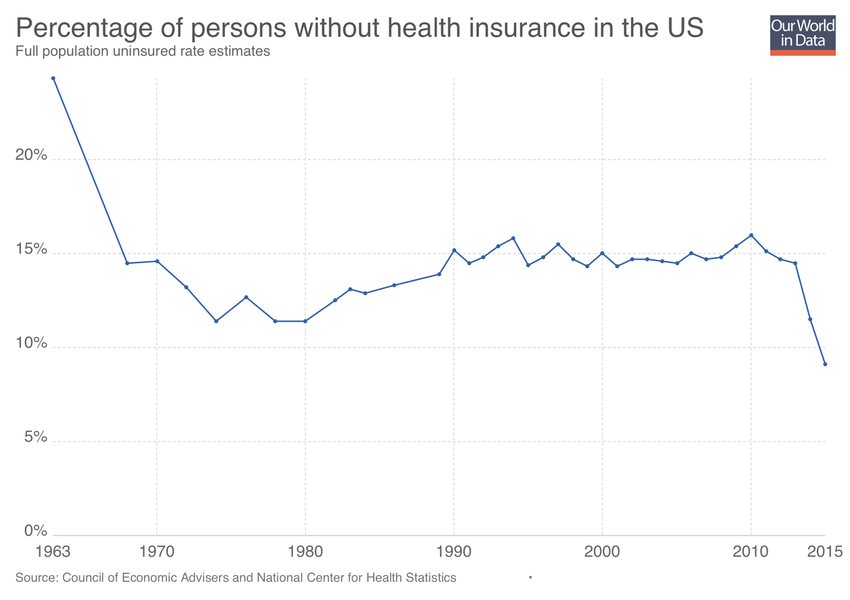
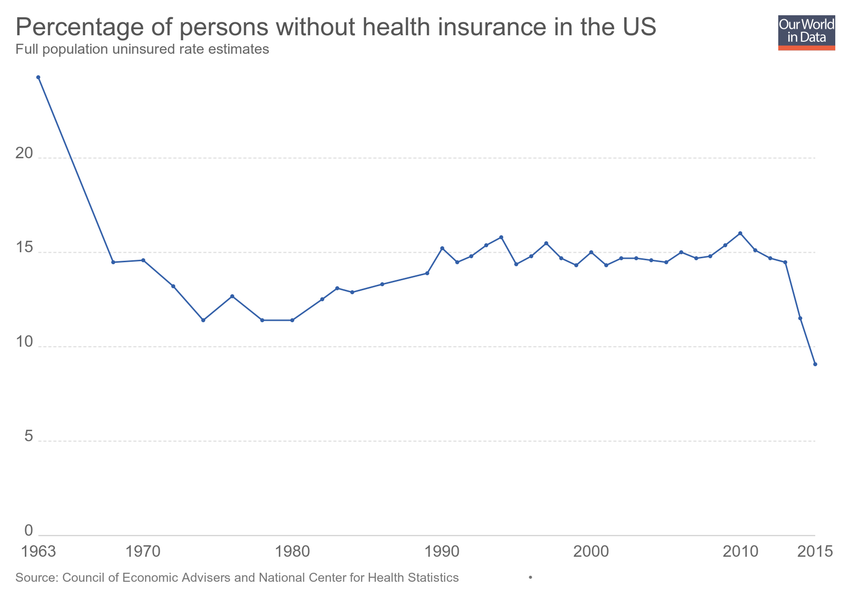
Updating chart percentage-of-persons-without-health-insurance-coverage-us

diff --git a/grapher/percentage-of-persons-without-health-insurance-coverage-us.html b/grapher/percentage-of-persons-without-health-insurance-coverage-us.html
@@ -1,4 +1,4 @@
-<!doctype html><html><head><meta name="viewport" content="width=device-width, initial-scale=1" /><title>Percentage of persons without health insurance in the US - Our World in Data</title><meta name="description" content="Full population uninsured rate estimates" /><link rel="canonical" href="https://ourworldindata.org/grapher/percentage-of-persons-without-health-insurance-coverage-us" /><meta property="fb:app_id" content="1149943818390250" /><meta property="og:url" content="https://ourworldindata.org/grapher/percentage-of-persons-without-health-insurance-coverage-us" /><meta property="og:title" content="Percentage of persons without health insurance in the US" /><meta property="og:description" content="Full population uninsured rate estimates" /><meta property="og:image" content="https://ourworldindata.org/grapher/exports/percentage-of-persons-without-health-insurance-coverage-us.png?v=1" /><meta property="og:image:width" content="850" /><meta property="og:image:height" content="600" /><meta property="og:site_name" content="Our World in Data" /><meta name="twitter:card" content="summary_large_image" /><meta name="twitter:site" content="@OurWorldInData" /><meta name="twitter:creator" content="@OurWorldInData" /><meta name="twitter:title" content="Percentage of persons without health insurance in the US" /><meta name="twitter:description" content="Full population uninsured rate estimates" /><meta name="twitter:image" content="https://ourworldindata.org/grapher/exports/percentage-of-persons-without-health-insurance-coverage-us.png?v=1" /><style>
+<!doctype html><html><head><meta name="viewport" content="width=device-width, initial-scale=1" /><title>Percentage of persons without health insurance in the US - Our World in Data</title><meta name="description" content="Full population uninsured rate estimates" /><link rel="canonical" href="https://ourworldindata.org/grapher/percentage-of-persons-without-health-insurance-coverage-us" /><meta property="fb:app_id" content="1149943818390250" /><meta property="og:url" content="https://ourworldindata.org/grapher/percentage-of-persons-without-health-insurance-coverage-us" /><meta property="og:title" content="Percentage of persons without health insurance in the US" /><meta property="og:description" content="Full population uninsured rate estimates" /><meta property="og:image" content="https://ourworldindata.org/grapher/exports/percentage-of-persons-without-health-insurance-coverage-us.png?v=2" /><meta property="og:image:width" content="850" /><meta property="og:image:height" content="600" /><meta property="og:site_name" content="Our World in Data" /><meta name="twitter:card" content="summary_large_image" /><meta name="twitter:site" content="@OurWorldInData" /><meta name="twitter:creator" content="@OurWorldInData" /><meta name="twitter:title" content="Percentage of persons without health insurance in the US" /><meta name="twitter:description" content="Full population uninsured rate estimates" /><meta name="twitter:image" content="https://ourworldindata.org/grapher/exports/percentage-of-persons-without-health-insurance-coverage-us.png?v=2" /><style>
         html, body {
             height: 100%;
             margin: 0;
@@ -20,8 +20,8 @@
         }
     </style><noscript><style>
                     figure { display: none !important; }
-                </style></noscript><link rel="stylesheet" href="https://ourworldindata.org/grapher/assets/commons.bundle.1fb9afe5c9103588de22.css" /><link rel="preload" href="/grapher/data/variables/1307.json?v=1" as="fetch" crossorigin /></head><body class="singleChart"><figure data-grapher-src="/grapher/percentage-of-persons-without-health-insurance-coverage-us"></figure><noscript id="fallback"><img src="/grapher/exports/percentage-of-persons-without-health-insurance-coverage-us.svg" /><p>Interactive visualization requires JavaScript</p></noscript><script src="https://cdn.polyfill.io/v2/polyfill.min.js?features=es6,fetch"></script><script src="https://ourworldindata.org/grapher/assets/commons.bundle.1fb9afe5c9103588de22.js"></script><script src="https://ourworldindata.org/grapher/assets/charts.bundle.1fb9afe5c9103588de22.js"></script><script>
-        var jsonConfig = {"id":288,"map":{"mode":"specific","maxYear":2000,"minYear":1980,"projection":"World","targetYear":1980,"timeRanges":[],"variableId":1307,"defaultYear":1980,"isColorblind":false,"timelineMode":"timeline","timeTolerance":1,"legendStepSize":20,"targetYearMode":"normal","baseColorScheme":"BuGn","colorSchemeName":"BuGn","colorSchemeInvert":false,"colorSchemeLabels":[],"defaultProjection":"World","legendDescription":"","legendOrientation":"portrait","customNumericColors":[],"customCategoryColors":{},"customCategoryLabels":{},"customHiddenCategories":{}},"tab":"chart","note":"","slug":"percentage-of-persons-without-health-insurance-coverage-us","type":"LineChart","title":"Percentage of persons without health insurance in the US","xAxis":{"scaleType":"linear"},"yAxis":{"min":0,"suffix":"%","scaleType":"linear","labelDistance":-10},"version":1,"subtitle":"Full population uninsured rate estimates","hasMapTab":false,"originUrl":"https://ourworldindata.org/financing-healthcare/","stackMode":"absolute","dimensions":[{"id":5757,"order":0,"chartId":288,"display":{"name":"","unit":"%","tolerance":5,"isProjection":false},"property":"y","targetYear":2000,"variableId":1307}],"hideLegend":true,"hasChartTab":true,"isPublished":true,"selectedData":[{"index":0,"entityId":13}],"internalNotes":"","addCountryMode":"disabled","hideTitleAnnotation":true};
+                </style></noscript><link rel="stylesheet" href="https://ourworldindata.org/grapher/assets/commons.bundle.1fb9afe5c9103588de22.css" /><link rel="preload" href="/grapher/data/variables/98089.json?v=2" as="fetch" crossorigin /></head><body class="singleChart"><figure data-grapher-src="/grapher/percentage-of-persons-without-health-insurance-coverage-us"></figure><noscript id="fallback"><img src="/grapher/exports/percentage-of-persons-without-health-insurance-coverage-us.svg" /><p>Interactive visualization requires JavaScript</p></noscript><script src="https://cdn.polyfill.io/v2/polyfill.min.js?features=es6,fetch"></script><script src="https://ourworldindata.org/grapher/assets/commons.bundle.1fb9afe5c9103588de22.js"></script><script src="https://ourworldindata.org/grapher/assets/charts.bundle.1fb9afe5c9103588de22.js"></script><script>
+        var jsonConfig = {"id":288,"map":{"projection":"World","targetYear":1980,"variableId":1307,"timeTolerance":1,"baseColorScheme":"BuGn","colorSchemeInvert":false,"colorSchemeLabels":[],"colorSchemeValues":[],"legendDescription":"","customNumericColors":[],"customCategoryColors":{},"customCategoryLabels":{},"customHiddenCategories":{}},"tab":"chart","note":"","slug":"percentage-of-persons-without-health-insurance-coverage-us","type":"LineChart","title":"Percentage of persons without health insurance in the US","xAxis":{"scaleType":"linear"},"yAxis":{"min":0,"suffix":"%","scaleType":"linear","labelDistance":-10},"version":2,"subtitle":"Full population uninsured rate estimates","hasMapTab":false,"originUrl":"https://ourworldindata.org/financing-healthcare/","stackMode":"absolute","dimensions":[{"display":{},"property":"y","variableId":98089}],"hideLegend":true,"hasChartTab":true,"isPublished":true,"selectedData":[{"index":0,"entityId":13}],"internalNotes":"","addCountryMode":"add-country","hideTitleAnnotation":true};
         var figure = document.getElementsByTagName("figure")[0];
         try {
             window.App = {};
